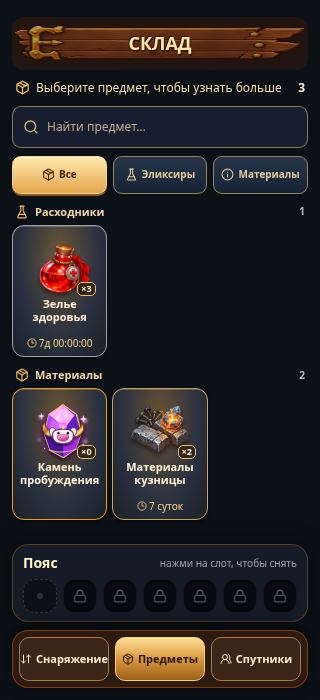
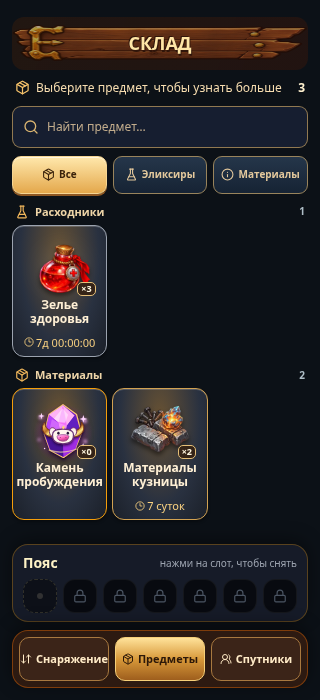
improve companion focus and map drawer access

Changed region(s): [[0.375, 0.66, 0.625, 0.75], [0.0625, 0.42, 0.3125, 0.51], [0.0625, 0.66, 0.3125, 0.72]]

diff --git a/src/components/followersCamp.css b/src/components/followersCamp.css
@@ -1,5 +1,5 @@
 /* Real companion data with owner-approved wood and existing vivid Viking artwork. */
-.followers-camp{display:grid;gap:10px;min-width:0;padding:4px 1px 12px;color:#f8e9ca;font:12px/1.3 system-ui,-apple-system,sans-serif}
+.followers-camp{display:flex;flex-direction:column;gap:10px;min-width:0;padding:4px 1px 12px;color:#f8e9ca;font:12px/1.3 system-ui,-apple-system,sans-serif}
 .followers-camp *{box-sizing:border-box}
 .followers-camp button{touch-action:manipulation;-webkit-tap-highlight-color:transparent}
 .followers-camp__header{display:flex;align-items:center;gap:7px;padding:8px 7px;min-height:76px;border:1px solid #d6a9638c;border-radius:14px;background:linear-gradient(115deg,#48311f,#16283a 74%);box-shadow:inset 0 1px #fce6be30,0 3px 4px #0006}
@@ -9,9 +9,9 @@
 .followers-camp__heading .territory-wooden-plaque{width:min(100%,185px);height:45px}
 .followers-camp__heading p{margin:0 0 0 8px;color:#ead2ad;font-size:10px}
 .followers-camp__count{min-width:38px;padding:5px 4px;border:1px solid #d6b57580;border-radius:9px;background:#1e2636;color:#fff0c5;text-align:center;font-size:13px;font-weight:900;font-variant-numeric:tabular-nums}
-.followers-camp__active{position:relative;display:flex;gap:10px;align-items:center;min-height:122px;padding:10px;border:2px solid #d7a85c;border-radius:13px;background:radial-gradient(ellipse at 10% 20%,#936c3970,transparent 62%),linear-gradient(130deg,#4b2f20,#1e2d3f 73%);box-shadow:inset 0 1px #fff5cb56,0 2px 3px #0006}
-.followers-camp__active-art{display:grid;align-items:end;justify-items:center;flex:0 0 95px;width:95px;height:117px;border-bottom:2px solid #e0af67;background:radial-gradient(ellipse at 50% 80%,#f2dca52e,transparent 66%)}
-.followers-camp__active-art img{height:117px;width:95px;object-fit:contain;object-position:bottom;filter:drop-shadow(1px 5px 3px #0a0809b8)}
+.followers-camp__active{position:relative;display:flex;gap:10px;align-items:center;min-height:82px;padding:7px 10px;border:2px solid #d7a85c;border-radius:13px;background:radial-gradient(ellipse at 10% 20%,#936c3970,transparent 62%),linear-gradient(130deg,#4b2f20,#1e2d3f 73%);box-shadow:inset 0 1px #fff5cb56,0 2px 3px #0006}
+.followers-camp__active-art{display:grid;align-items:end;justify-items:center;flex:0 0 65px;width:65px;height:75px;border-bottom:2px solid #e0af67;background:radial-gradient(ellipse at 50% 80%,#f2dca52e,transparent 66%)}
+.followers-camp__active-art img{height:75px;width:65px;object-fit:contain;object-position:bottom;filter:drop-shadow(1px 5px 3px #0a0809b8)}
 .followers-camp__active-info{flex:1;min-width:0}
 .followers-camp__eyebrow{display:inline-flex;align-items:center;gap:3px;color:#f3c77e;font-size:9px;font-weight:900;letter-spacing:.3px}
 .followers-camp__active-info h3{margin:5px 0;color:#fff1cc;font-size:18px;font-weight:900;line-height:1.15;text-shadow:1px 2px 0 #251509,0 0 7px #eaba6785}
@@ -34,10 +34,11 @@
 .followers-camp__portrait-status--locked{background:#2a2d36;border-color:#aaa3a2}
 .followers-camp__detail{display:grid;gap:9px;padding:10px 9px;border:1px solid #d2ad7388;border-radius:13px;background:linear-gradient(145deg,#342719,#1d2b38 65%,#131b28);box-shadow:inset 0 1px #ffefc820}
 .followers-camp__detail-top{display:flex;gap:11px;align-items:center}
-.followers-camp__detail-top>img{width:89px;height:110px;flex:0 0 89px;object-fit:contain;object-position:bottom;filter:drop-shadow(0 4px 4px #0009)}
-.followers-camp__detail-top>div{flex:1;min-width:0}
+.followers-camp__detail-art{display:flex;justify-content:center;align-items:flex-end;flex:0 0 42%;height:180px;min-width:0;overflow:hidden;background:radial-gradient(ellipse at 50% 75%,#e6b55a54,transparent 68%)}
+.followers-camp__detail-art img{width:100%;height:100%;max-width:100%;flex:none;object-fit:contain;object-position:center bottom;filter:drop-shadow(0 4px 4px #0009)}
+.followers-camp__detail-top>div:not(.followers-camp__detail-art){flex:1;min-width:0}
 .followers-camp__detail-top h3{font-size:17px;margin:6px 0 5px;font-weight:900;color:#ffecbf;line-height:1.16;text-shadow:1px 2px 0 #24130a,0 0 7px #edae5b5c}
-.followers-camp__detail-top p{margin:0;font-size:11px;color:#d6c8b9;line-height:1.35}
+.followers-camp__detail-top p{margin:0;font-size:12px;color:#f0dfcb;line-height:1.35;overflow-wrap:anywhere}
 .followers-camp__availability{display:inline-flex;margin-top:8px;padding:3px 6px;border-radius:7px;background:#2b674671;color:#ace7c5;font-size:10px;font-weight:850}
 .followers-camp__availability--locked{background:#46372b;color:#efb77c}
 .followers-camp__stats{display:grid;grid-template-columns:repeat(3,minmax(0,1fr));gap:6px}
@@ -48,7 +49,7 @@
 .followers-camp__progress{height:9px;overflow:hidden;border:1px solid #c79d605e;border-radius:9px;background:#111a26}
 .followers-camp__progress>span{display:block;height:100%;max-width:100%;border-radius:9px;background:linear-gradient(90deg,#7fbb84,#e4d98a)}
 .followers-camp__actions{display:grid;grid-template-columns:1fr 1fr;gap:7px}
-.followers-camp__actions button{display:flex;align-items:center;justify-content:center;gap:6px;min-height:41px;border-radius:10px;border:1px solid #a4dfc1;background:linear-gradient(#409269,#1d5847);color:#ebffdf;font-size:12px;font-weight:900}
+.followers-camp__actions button{display:flex;align-items:center;justify-content:center;gap:6px;min-height:44px;border-radius:10px;border:1px solid #a4dfc1;background:linear-gradient(#409269,#1d5847);color:#ebffdf;font-size:12px;font-weight:900}
 .followers-camp__actions button.followers-camp__train{border-color:#ffe0a0;background:linear-gradient(#e5ad56,#925b27);color:#251407}
 .followers-camp__actions button:disabled{opacity:.47}
 .followers-camp__cost{display:flex;justify-content:center;align-items:center;flex-wrap:wrap;gap:12px;border:1px solid #d2a5643e;border-radius:8px;padding:7px;color:#ffdda2;background:#151d2b99;font-size:11px}

diff --git a/src/components/FollowersPanel.tsx b/src/components/FollowersPanel.tsx
@@ -36,7 +36,7 @@ export function FollowersPanel() {
     });
     const cow = id === 'follower_6';
     setNote(succeeded ? (cow ? (en ? 'Battle Cow level raised with an awakening stone' : 'Уровень Боевой коровы повышен за камень пробуждения') : (en ? 'Training completed' : 'Тренировка завершена'))
-      : cow ? (en ? 'Awakening stone required. Defeat milestone bosses to earn one.' : 'Нужен камень пробуждения. Побеждай особых боссов, чтобы получить его.')
+      : cow ? (en ? 'An awakening stone is required. Its source is not yet confirmed.' : 'Нужен камень пробуждения. Источник пока не подтверждён.')
         : (en ? 'Not enough materials, gold or hero level' : 'Не хватает золота, материалов или уровня героя'));
   };
 
@@ -83,30 +83,9 @@ export function FollowersPanel() {
       </div>}
     </div>
 
-    <div className="followers-camp__roster-title">
-      <h4>{en ? 'Your companions' : 'Все последователи'}</h4>
-      {nextUnlock && <span>{en ? 'Next unlock' : 'Следующий'}: {en ? 'Lv.' : 'Ур.'} {nextUnlock.unlockLevel}</span>}
-    </div>
-    <div className="followers-camp__roster" role="group" aria-label={en ? 'Choose companion to inspect' : 'Выбор последователя'}>
-      {FOLLOWER_TEMPLATES.map(candidate => {
-        const unit = state.followers.find(f => f.id === candidate.id);
-        const isActive = active?.id === candidate.id;
-        const focus = candidate.id === template.id;
-        return <button key={candidate.id} type="button" onClick={() => { setSelectedId(candidate.id); setNote(''); }}
-          className={`followers-camp__portrait ${focus ? 'followers-camp__portrait--focus' : ''} ${isActive ? 'followers-camp__portrait--active' : ''}`}
-          aria-pressed={focus} aria-label={`${en ? candidate.nameEn : candidate.name} — ${unit?.unlocked ? (en ? 'Level' : 'Уровень') + ' ' + unit.level : (en ? 'Unlocks at level' : 'Откроется на уровне') + ' ' + candidate.unlockLevel}`}>
-          <img src={getFollowerArt(candidate.id)} loading="lazy" draggable={false} alt=""
-            className={unit?.unlocked ? '' : 'followers-camp__portrait-img--locked'}/>
-          {isActive && <span className="followers-camp__portrait-status"><Check size={11}/></span>}
-          {!unit?.unlocked && <span className="followers-camp__portrait-status followers-camp__portrait-status--locked"><LockKeyhole size={11}/></span>}
-          <b>{en ? candidate.nameEn : candidate.name}</b>
-        </button>;
-      })}
-    </div>
-
     {follower && <section className="followers-camp__detail" aria-live="polite">
       <div className="followers-camp__detail-top">
-        <img src={getFollowerArt(follower.id)} alt="" loading="lazy" draggable={false}/>
+        <div className="followers-camp__detail-art"><img src={getFollowerArt(follower.id)} alt="" loading="lazy" draggable={false}/></div>
         <div>
           <span className="followers-camp__eyebrow"><Sparkles size={12}/>{en ? 'COMPANION DETAILS' : 'ХАРАКТЕРИСТИКИ'}</span>
           <h3>{en ? template.nameEn : template.name}</h3>
@@ -154,6 +133,28 @@ export function FollowersPanel() {
       </>}
     </section>}
     {note && <p role="status" className="followers-camp__note">{note}</p>}
+
+    <div className="followers-camp__roster-title">
+      <h4>{en ? 'Your companions' : 'Все последователи'}</h4>
+      {nextUnlock && <span>{en ? 'Next unlock' : 'Следующий'}: {en ? 'Lv.' : 'Ур.'} {nextUnlock.unlockLevel}</span>}
+    </div>
+    <div className="followers-camp__roster" role="group" aria-label={en ? 'Choose companion to inspect' : 'Выбор последователя'}>
+      {FOLLOWER_TEMPLATES.map(candidate => {
+        const unit = state.followers.find(f => f.id === candidate.id);
+        const isActive = active?.id === candidate.id;
+        const focus = candidate.id === template.id;
+        return <button key={candidate.id} type="button" onClick={() => { setSelectedId(candidate.id); setNote(''); }}
+          className={`followers-camp__portrait ${focus ? 'followers-camp__portrait--focus' : ''} ${isActive ? 'followers-camp__portrait--active' : ''}`}
+          aria-pressed={focus} aria-label={`${en ? candidate.nameEn : candidate.name} — ${unit?.unlocked ? (en ? 'Level' : 'Уровень') + ' ' + unit.level : (en ? 'Unlocks at level' : 'Откроется на уровне') + ' ' + candidate.unlockLevel}`}>
+          <img src={getFollowerArt(candidate.id)} loading="lazy" draggable={false} alt=""
+            className={unit?.unlocked ? '' : 'followers-camp__portrait-img--locked'}/>
+          {isActive && <span className="followers-camp__portrait-status"><Check size={11}/></span>}
+          {!unit?.unlocked && <span className="followers-camp__portrait-status followers-camp__portrait-status--locked"><LockKeyhole size={11}/></span>}
+          <b>{en ? candidate.nameEn : candidate.name}</b>
+        </button>;
+      })}
+    </div>
+
     <p className="followers-camp__footnote">{en
       ? 'Follower bonuses work in PvE only. Arena remains balanced separately.'
       : 'Бонусы спутников действуют только в Походе и Испытаниях, не на Арене.'}</p>

diff --git a/src/components/WorldMapCanvas.tsx b/src/components/WorldMapCanvas.tsx
@@ -1,4 +1,4 @@
-import { memo, useLayoutEffect, useRef, useState } from 'react';
+import { memo, useEffect, useLayoutEffect, useRef, useState } from 'react';
 import { ChevronRight, Compass, Hand, Layers3, LocateFixed, Minus, Plus, X } from 'lucide-react';
 import { WoodenPlaque } from '@/components/ui/WoodenPlaque';
 import './worldMapCanvas.css';
@@ -173,7 +173,26 @@ export const WorldMapCanvas = memo(function WorldMapCanvas({ onVisit, readyRegio
   const cancelClick = useRef(false);
   const [hintVisible, setHintVisible] = useState(() => !sawPanHint());
   const [drawerOpen, setDrawerOpen] = useState(false);
+  const drawerRef = useRef<HTMLDivElement>(null);
+  const drawerCloseRef = useRef<HTMLButtonElement>(null);
   const attentionSet = new Set<WorldMapPlace>(attentionPlaces);
+
+  useEffect(() => {
+    if (!drawerOpen) return;
+    const previous = document.activeElement instanceof HTMLElement ? document.activeElement : null;
+    drawerCloseRef.current?.focus();
+    const onKey = (event: KeyboardEvent) => {
+      if (event.key === 'Escape') { event.preventDefault(); event.stopPropagation(); setDrawerOpen(false); return; }
+      if (event.key !== 'Tab' || !drawerRef.current) return;
+      const buttons = Array.from(drawerRef.current.querySelectorAll<HTMLButtonElement>('button:not(:disabled)'));
+      if (!buttons.length) return;
+      const first = buttons[0], last = buttons[buttons.length - 1];
+      if (event.shiftKey && document.activeElement === first) { event.preventDefault(); last.focus(); }
+      else if (!event.shiftKey && document.activeElement === last) { event.preventDefault(); first.focus(); }
+    };
+    window.addEventListener('keydown', onKey);
+    return () => { window.removeEventListener('keydown', onKey); if (previous?.isConnected) previous.focus(); };
+  }, [drawerOpen]);
 
   // Directly move one composited layer in requestAnimationFrame. React never
   // reconciles the 18 clickable landmarks on each pointermove (a major source
@@ -602,10 +621,10 @@ export const WorldMapCanvas = memo(function WorldMapCanvas({ onVisit, readyRegio
 
       {drawerOpen && (
         <div className="absolute inset-0 z-30 flex items-end bg-black/55" onClick={() => setDrawerOpen(false)}>
-          <div className="territory-world-map__drawer flex max-h-[78%] w-full flex-col overflow-hidden rounded-t-2xl p-3 shadow-2xl" onClick={event => event.stopPropagation()} role="dialog" aria-label={language === 'en' ? 'All locations' : 'Все места'}>
-            <div className="mb-1 flex shrink-0 items-center justify-between gap-2">
+          <div ref={drawerRef} className="territory-world-map__drawer flex max-h-[78%] w-full flex-col overflow-hidden rounded-t-2xl p-3 shadow-2xl" onClick={event => event.stopPropagation()} role="dialog" aria-modal="true" aria-label={language === 'en' ? 'All locations' : 'Все места'}>
+            <div className="territory-world-map__drawer-head mb-1 shrink-0">
               <WoodenPlaque>{language === 'en' ? 'All locations' : 'Все места'}</WoodenPlaque>
-              <button type="button" className="territory-world-map__drawer-close" onClick={() => setDrawerOpen(false)} aria-label={language === 'en' ? 'Close' : 'Закрыть'}><X size={20} /></button>
+              <button ref={drawerCloseRef} type="button" className="territory-world-map__drawer-close" onClick={() => setDrawerOpen(false)} aria-label={language === 'en' ? 'Close' : 'Закрыть'}><X size={20} /></button>
             </div>
             <div className="territory-world-map__drawer-scroll min-h-0 overflow-y-auto pb-2">
               <p className="territory-world-map__drawer-section">{language === 'en' ? 'Discover on the map' : 'Места на карте'}</p>

diff --git a/src/components/compactWarehouse.css b/src/components/compactWarehouse.css
@@ -29,8 +29,8 @@
 .warehouse-tile__art{position:relative;display:grid;place-items:center;width:72px;height:72px;max-width:100%;flex-shrink:0}
 .warehouse-tile__art img{width:70px;height:70px;max-width:100%;object-fit:contain;filter:drop-shadow(0 3px 2px #0007)}
 .warehouse-tile__count{position:absolute;right:-4px;bottom:2px;max-width:87%;padding:1px 3px;border:1px solid #e5bf78;border-radius:5px;color:#fff6df;background:#352214e8;overflow:hidden;text-overflow:ellipsis;white-space:nowrap;font-size:9px;font-weight:900;font-variant-numeric:tabular-nums;line-height:1.15}
-.warehouse-tile__name{display:block;min-width:0;width:100%;text-align:center;overflow-wrap:anywhere;color:#fff0d5;font-size:11px;line-height:1.16;font-weight:800}
-.warehouse-tile__expiry{display:flex;align-items:center;justify-content:center;gap:2px;min-width:0;max-width:100%;margin-top:auto;padding-top:4px;color:#f9d180;font-size:10px;line-height:1.2;font-variant-numeric:tabular-nums;overflow-wrap:anywhere}
+.warehouse-tile__name{display:block;min-width:0;width:100%;text-align:center;overflow-wrap:anywhere;color:#fff0d5;font-size:12px;line-height:1.18;font-weight:800}
+.warehouse-tile__expiry{display:flex;align-items:center;justify-content:center;gap:2px;min-width:0;max-width:100%;margin-top:auto;padding-top:4px;color:#f9d180;font-size:11px;line-height:1.2;font-variant-numeric:tabular-nums;overflow-wrap:anywhere}
 .warehouse-tile__expiry svg{flex-shrink:0}
 .warehouse-tile--urgent .warehouse-tile__expiry{color:#ffaaa3}
 .warehouse-tile--forge{--warehouse-rarity:#d2a252}

diff --git a/src/components/worldMapCanvas.css b/src/components/worldMapCanvas.css
@@ -180,11 +180,14 @@
   text-transform: uppercase;
   text-shadow: 0 1px 2px #080d08;
 }
+.territory-world-map__drawer-head { display:grid; grid-template-columns:44px minmax(0,1fr) 44px; align-items:center; gap:4px; }
+.territory-world-map__drawer-head > .territory-wooden-plaque { grid-column:2; justify-self:center; max-width:100%; }
+.territory-world-map__drawer-head > .territory-world-map__drawer-close { grid-column:3; grid-row:1; }
 .territory-world-map__drawer-close {
   display: flex;
-  width: 38px;
-  height: 38px;
-  flex: 0 0 38px;
+  width: 44px;
+  height: 44px;
+  flex: 0 0 44px;
   align-items: center;
   justify-content: center;
   border: 1px solid #dab16c;

diff --git a/scripts/check-companion-browser.py b/scripts/check-companion-browser.py
@@ -1,0 +1,42 @@
+"""Offline tests of the actual companion panel; no server or player accounts."""
+import os, threading
+from functools import partial
+from http.server import SimpleHTTPRequestHandler, ThreadingHTTPServer
+from playwright.sync_api import sync_playwright
+
+class Handler(SimpleHTTPRequestHandler):
+    def translate_path(self, path):
+        asset = os.path.join(os.getcwd(), 'public', path.lstrip('/').split('?')[0])
+        return asset if os.path.isfile(asset) else super().translate_path(path)
+    def log_message(self, *args): pass
+
+server = ThreadingHTTPServer(('127.0.0.1', 0), partial(Handler, directory='/tmp'))
+threading.Thread(target=server.serve_forever, daemon=True).start()
+with sync_playwright() as playwright:
+    browser = playwright.chromium.launch(executable_path='/usr/bin/chromium', args=['--no-sandbox'])
+    for width in (320, 360, 390, 430):
+        for language in ('ru', 'en'):
+            page = browser.new_page(viewport={'width': width, 'height': 500}, reduced_motion='reduce')
+            page.add_init_script(f"localStorage.setItem('territory-language', '{language}')")
+            page.goto(f'http://127.0.0.1:{server.server_port}/territory-companion-after.html?active')
+            panel = page.locator('[data-testid="followers-panel"]')
+            panel.wait_for()
+            assert page.evaluate('document.documentElement.scrollWidth <= innerWidth')
+            assert panel.locator('.followers-camp__portrait').count() == 6
+            assert panel.locator('.followers-camp__portrait[aria-pressed="true"]').count() == 1
+            assert panel.locator('.followers-camp__detail-top img').evaluate('(el) => el.complete && el.naturalWidth > 0')
+            panel.locator('.followers-camp__portrait').nth(1).click()
+            assert panel.locator('.followers-camp__portrait[aria-pressed="true"]').count() == 1
+            assert ('Northern Warrior' if language == 'en' else 'Северный воин') in panel.locator('.followers-camp__detail h3').inner_text()
+            choose = panel.locator('.followers-camp__choose')
+            assert choose.is_enabled()
+            choose.click()
+            assert choose.is_disabled()
+            panel.locator('.followers-camp__portrait').last.click()
+            assert ('Battle Cow' if language == 'en' else 'Боевая корова') in panel.locator('.followers-camp__detail h3').inner_text()
+            assert panel.locator('.followers-camp__availability--locked').is_visible()
+            assert page.evaluate('document.documentElement.scrollWidth <= innerWidth')
+            page.close()
+    browser.close()
+server.shutdown()
+print('Companion browser checks passed: real component, locked and active state, selection, 320/360/390/430, RU/EN.')

diff --git a/scripts/check-map-browser.py b/scripts/check-map-browser.py
@@ -1,0 +1,40 @@
+"""Test the production map and locations drawer with an offline route callback."""
+import os, threading
+from functools import partial
+from http.server import SimpleHTTPRequestHandler, ThreadingHTTPServer
+from playwright.sync_api import sync_playwright
+class Handler(SimpleHTTPRequestHandler):
+    def translate_path(self, path):
+        asset = os.path.join(os.getcwd(), 'public', path.lstrip('/').split('?')[0])
+        return asset if os.path.isfile(asset) else super().translate_path(path)
+    def log_message(self, *args): pass
+server = ThreadingHTTPServer(('127.0.0.1', 0), partial(Handler, directory='/tmp'))
+threading.Thread(target=server.serve_forever, daemon=True).start()
+with sync_playwright() as p:
+    browser = p.chromium.launch(executable_path='/usr/bin/chromium', args=['--no-sandbox'])
+    for width in (320,360,390,430):
+        for language in ('ru','en'):
+            page = browser.new_page(viewport={'width': width, 'height': 500}, reduced_motion='reduce')
+            page.add_init_script(f"localStorage.setItem('territory-language','{language}')")
+            page.goto(f'http://127.0.0.1:{server.server_port}/territory-map-preview.html')
+            trigger=page.get_by_role('button', name='All locations' if language=='en' else 'Все места')
+            trigger.click()
+            dialog=page.get_by_role('dialog')
+            close=dialog.get_by_role('button', name='Close' if language=='en' else 'Закрыть')
+            rect=close.bounding_box()
+            assert rect['width'] >= 44 and rect['height'] >= 44
+            head=dialog.locator('.territory-world-map__drawer-head').bounding_box()
+            title=dialog.locator('.territory-wooden-plaque').bounding_box()
+            assert abs((head['x']+head['width']/2)-(title['x']+title['width']/2)) < 1
+            assert close.evaluate('(el) => document.activeElement === el')
+            assert dialog.locator('.territory-world-map__drawer-scroll').evaluate('(el) => el.scrollHeight > el.clientHeight')
+            page.keyboard.press('Escape')
+            assert dialog.count() == 0 and trigger.evaluate('(el) => document.activeElement === el')
+            trigger.click()
+            dialog.get_by_role('button', name='Forge' if language=='en' else 'Кузница').click()
+            assert page.evaluate('window.__route') == 'forge'
+            assert dialog.count() == 0 and page.evaluate('document.documentElement.scrollWidth <= innerWidth')
+            page.close()
+    browser.close()
+server.shutdown()
+print('Map drawer browser checks passed: 320/360/390/430, RU/EN, short height, scroll, Escape, focus and route.')

diff --git a/scripts/check-profile-browser.py b/scripts/check-profile-browser.py
@@ -114,6 +114,16 @@ with sync_playwright() as p:
             page.keyboard.press('Escape')
             assert dialog.count() == 0
             assert forge.evaluate('(el) => document.activeElement === el')
+            # A long warehouse stays searchable and keeps the pinned controls reachable.
+            page.goto(f'http://127.0.0.1:{server.server_port}/territory-profile-preview.html?inventory-many')
+            search = page.locator('.compact-warehouse__search input')
+            assert page.locator('.warehouse-tile').count() >= 40
+            search.fill('Test material 39')
+            assert page.locator('.warehouse-tile').count() == 1
+            assert 'Test material 39' in page.locator('.warehouse-tile').inner_text()
+            assert page.locator('[data-testid="inventory-pinned-belt"]').is_visible()
+            assert page.get_by_role('tablist', name='Inventory sections' if lang == 'en' else 'Разделы инвентаря').is_visible()
+            search.fill('')
             page.goto(f'http://127.0.0.1:{server.server_port}/territory-profile-preview.html?city')
             page.locator('.home-game-scene').wait_for()
             assert page.evaluate('document.documentElement.scrollWidth <= innerWidth')

diff --git a/docs/territory-v1-release/VISUAL_152_PROGRESS_RU.md b/docs/territory-v1-release/VISUAL_152_PROGRESS_RU.md
@@ -22,15 +22,28 @@
 | 320 | [до](visual-152/inventory-before-320-ru.png) · [после](visual-152/inventory-after-320-ru.png) | [before](visual-152/inventory-before-320-en.png) · [after](visual-152/inventory-after-320-en.png) |
 | 390 | [до](visual-152/inventory-before-390-ru.png) · [после](visual-152/inventory-after-390-ru.png) | [before](visual-152/inventory-before-390-en.png) · [after](visual-152/inventory-after-390-en.png) |
 
+## Спутники и окно карты
+
+Парные снимки соответствуют одному тестовому состоянию; «до» — `main` 8e0167e. Спутники показаны с тестовым разблокированным персонажем, карта — с открытым списком направлений.
+
+| Экран | 320 RU | 320 EN | 390 RU | 390 EN |
+| --- | --- | --- | --- | --- |
+| Спутники | [до](visual-152/companions-before-320-ru.png) · [после](visual-152/companions-after-320-ru.png) | [before](visual-152/companions-before-320-en.png) · [after](visual-152/companions-after-320-en.png) | [до](visual-152/companions-before-390-ru.png) · [после](visual-152/companions-after-390-ru.png) | [before](visual-152/companions-before-390-en.png) · [after](visual-152/companions-after-390-en.png) |
+| Список карты | [до](visual-152/map-dialog-before-320-ru.png) · [после](visual-152/map-dialog-after-320-ru.png) | [before](visual-152/map-dialog-before-320-en.png) · [after](visual-152/map-dialog-after-320-en.png) | [до](visual-152/map-dialog-before-390-ru.png) · [после](visual-152/map-dialog-after-390-ru.png) | [before](visual-152/map-dialog-before-390-en.png) · [after](visual-152/map-dialog-after-390-en.png) |
+
 ## Чеклист
 
 - [ ] Герой: сцена, реальные слоты и путь проверены в изолированном Chromium; художественная приёмка и состояния со всеми вариантами реальной экипировки не завершены.
 - [ ] Город и инвентарь: склад получил более крупные предметы и полные названия, браузерный smoke проверяет карточки и их закрытие; полный визуальный аудит всех вкладок и состояний не завершён.
 - [ ] Общий Modal и окна правил/призов Арены: проверены размер, внутренний скролл, закрытие, Escape, возврат фокуса и вложенный общий Modal в Chromium; остальные локальные окна требуют отдельной проверки.
 - [ ] Арена и бой, поход, испытания и существующая Тёмная пещера.
-- [ ] Руны, спутники, кузница, профессии, магазин и VIP.
-- [ ] Карта, задания, награды, клан, почта, аукцион и мини-игры.
+- [ ] Руны, спутники, кузница, профессии, магазин и VIP. Спутники: изолированная проверка выбранного и закрытого состояния, выбор и настоящие данные на четырёх ширинах и двух языках; остальные состояния требуют проверки.
+- [ ] Карта, задания, награды, клан, почта, аукцион и мини-игры. Список карты: проверены скролл, закрытие, фокус, маршрут кузницы, четыре ширины и два языка; жесты карты и прочие состояния требуют отдельной визуальной проверки.
 - [ ] Парные снимки остальных разделов, реальные пути действий и окончательная проверка всех окон.
 - [ ] Успешные Actions на конечном SHA и визуальная приёмка владельцем.
 
 Незавершённые пункты нельзя считать принятыми по наличию общей темы или статических CSS-проверок.
+
+## Локальные окна, требующие отдельного обхода
+
+Кроме общего `Modal`, в коде найдены отдельные окна: `ArenaRulesModal`, `ArenaWeeklyBoard`, подтверждение выхода `ArenaRoom`, заточка `ForgeScreen`, книга рун `RuneSkillBook`, список направлений `WorldMapCanvas`, бонусы `VikingSlots`/`ServerVikingSlots`, награда `MonopolyScreen`, панели и награда `monopoly/MonopolyAdventure`, а также локальные окна колеса и покупки магазина. Это список источников для проверки, а не утверждение, что каждый путь доступен в текущей конфигурации или уже проверен. Окна Арены и список карты имеют указанный выше изолированный browser smoke; остальные требуют проверки фактического открытия, клавиатуры, фокуса, скролла и вложенности.
